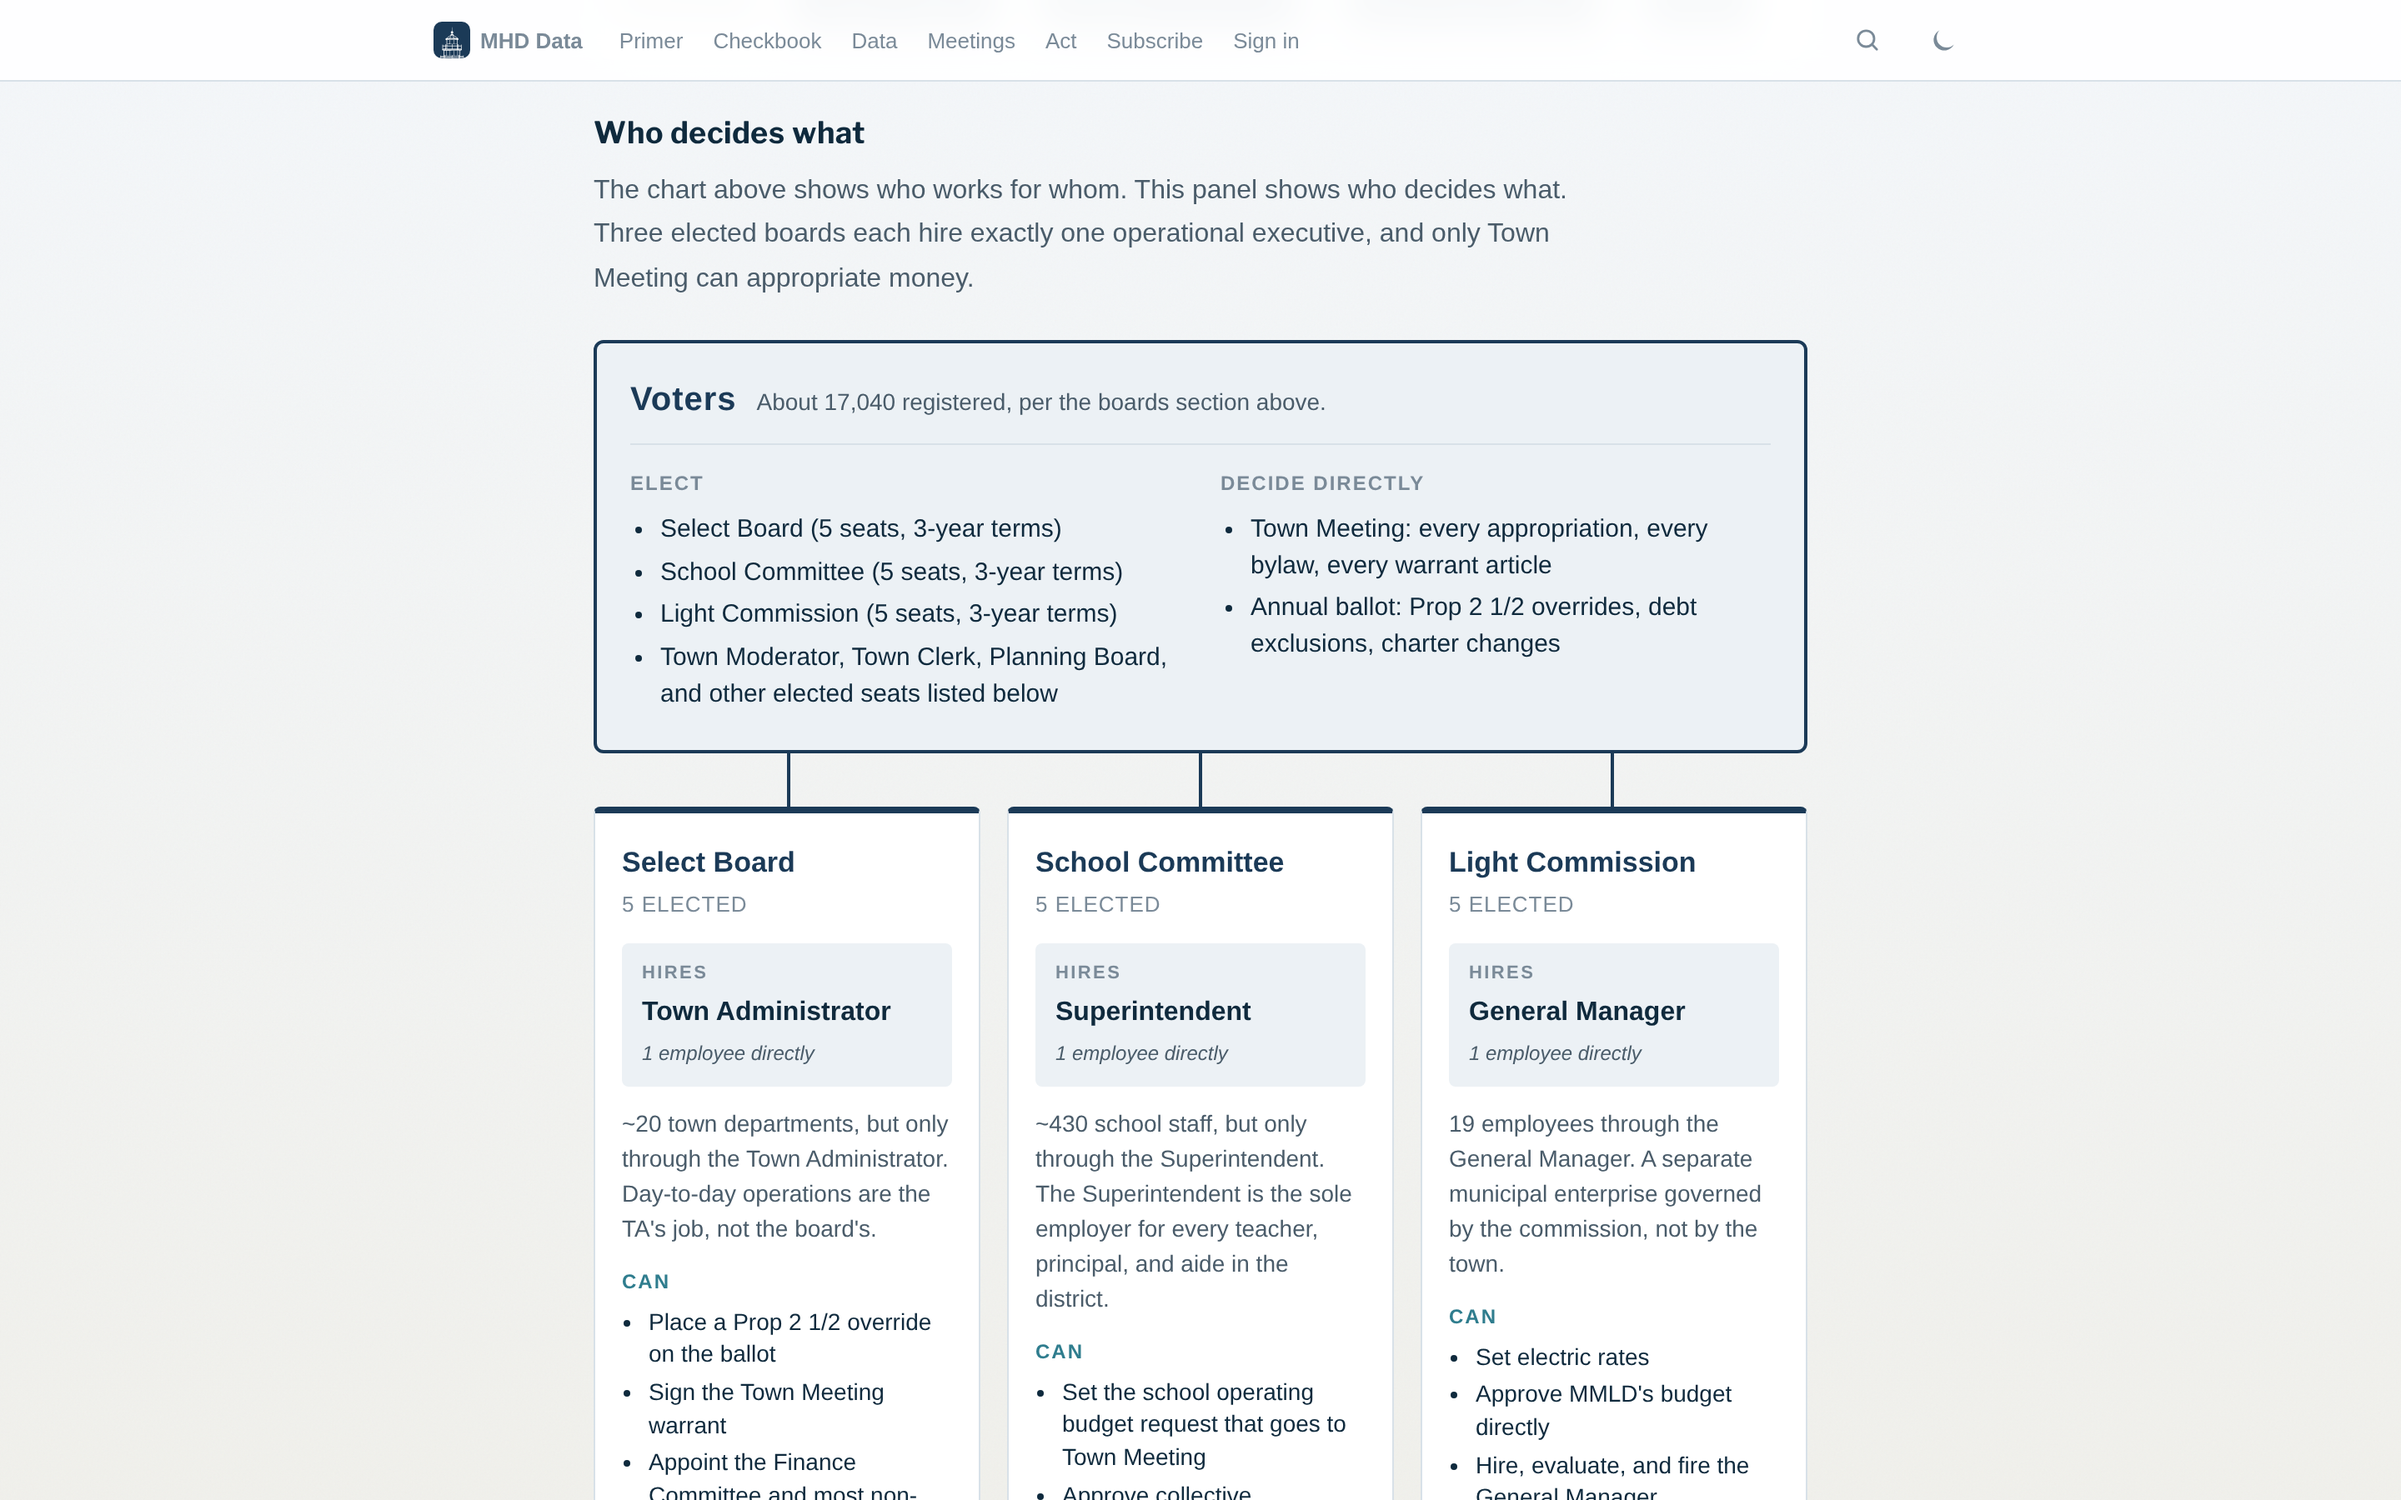
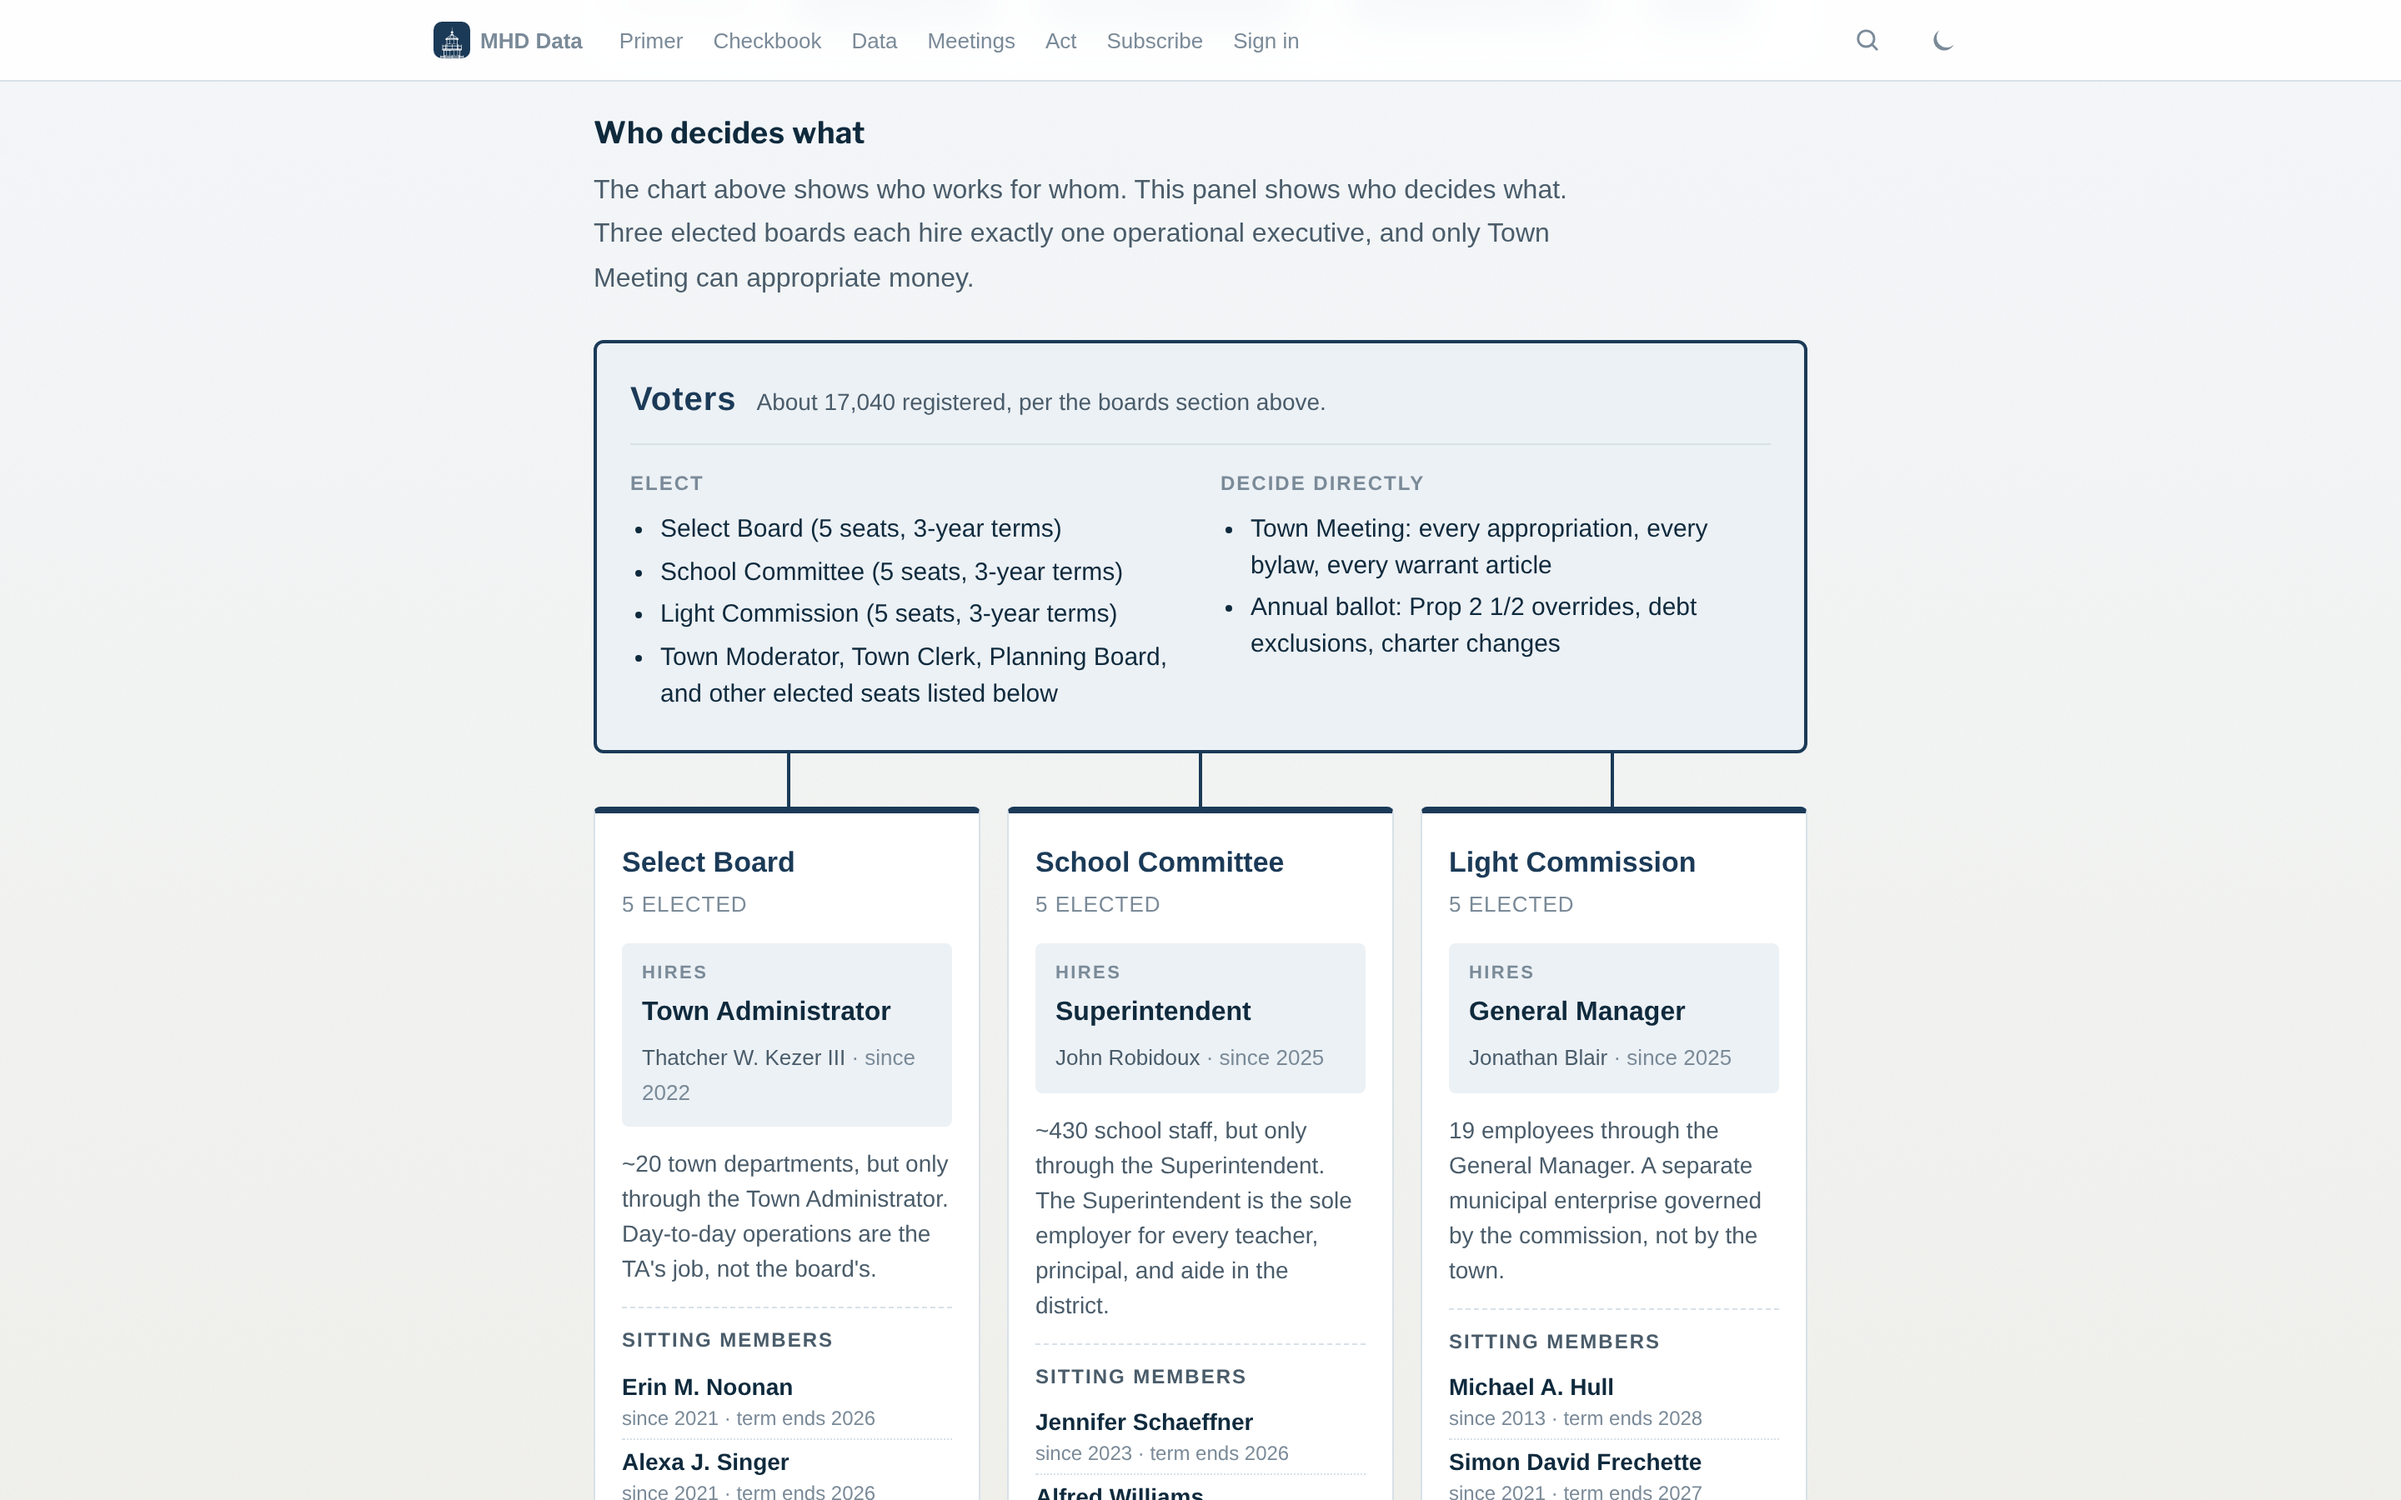
Add sitting members + executive incumbents to decision-flow pillars
Each pillar in the 'Who decides what' panel now shows:
- The named executive that body hires (Town Administrator: Thatcher
  W. Kezer III since 2022; Superintendent: John Robidoux since 2025
  permanent under July 2025 contract; General Manager: Jonathan Blair
  since 2025).
- A 'Sitting members' list with each board member's name, the year
  they were first listed in a town annual report, and their current
  term-end year. Brass 'appointed' tag for Melissa Clucas (filling
  Brian Ota's seat after his July 2025 resignation, per Dec 2025 SC
  minutes).

Names + term-end years come from data/town_docs/annual_reports/
Annual-Report-2025.txt rosters (pages 93-100). First-seen years are
derived by scripts/extract_officials_history.py, which scans annual
reports 2006-2025 for the same person across yearly rosters. Anyone
whose tenure predates the available reports is conservatively shown
as 'since 2006'. The June 2026 town election results are not yet in
the repo, so seats with term-end 2026 may have changed; the source
note in the panel calls this out.

Tooltips on each 'since YYYY' carry the methodological footnote (e.g.
Moses Grader 'Elected May 2017 to fill the seat Bret Murray vacated',
per the 2017 annual report; Michael Hull 'longest-tenured commissioner,
first listed 2013').

Deferred to a follow-up: naming members in the boards-below section
and naming department heads in the org-chart cards. Both are tractable
[…]

diff --git a/org-chart.html b/org-chart.html
@@ -78,9 +78,28 @@ og_url: https://marbleheaddata.org/org-chart.html
       <div class="flow-pillar-hires">
         <span class="flow-pillar-hires-label">Hires</span>
         <span class="flow-pillar-hires-value">{{ pillar.hires }}</span>
+        {% if pillar.hires_incumbent %}
+        <span class="flow-pillar-hires-incumbent">
+          {{ pillar.hires_incumbent.name }}<span class="flow-pillar-hires-since" title="{{ pillar.hires_incumbent.since_note }}"> &middot; since {{ pillar.hires_incumbent.since }}</span>
+        </span>
+        {% else %}
         <span class="flow-pillar-hires-count">1 employee directly</span>
+        {% endif %}
       </div>
       <p class="flow-pillar-reach">{{ pillar.reach }}</p>
+      {% if pillar.sitting %}
+      <div class="flow-pillar-sitting">
+        <p class="flow-pillar-list-label">Sitting members</p>
+        <ul>
+          {% for m in pillar.sitting %}
+          <li>
+            <span class="flow-pillar-member-name">{{ m.name }}</span>{% if m.appointed %} <span class="flow-pillar-member-appointed" title="Appointed mid-term to fill a vacancy, not elected">appointed</span>{% endif %}
+            <span class="flow-pillar-member-tenure"{% if m.since_note %} title="{{ m.since_note }}"{% endif %}>since {{ m.since }} &middot; term ends {{ m.term_ends }}</span>
+          </li>
+          {% endfor %}
+        </ul>
+      </div>
+      {% endif %}
       <div class="flow-pillar-can">
         <p class="flow-pillar-list-label">Can</p>
         <ul>{% for item in pillar.can %}<li>{{ item }}</li>{% endfor %}</ul>

diff --git a/assets/site.css b/assets/site.css
@@ -4930,6 +4930,63 @@ body.me-subscription-page .ms-pref button[type="submit"] { background: var(--c-n
   font-style: italic;
 }
 
+.flow-pillar-hires-incumbent {
+  font-size: 0.8125rem;
+  color: var(--c-text-mid);
+  margin-top: 2px;
+}
+
+.flow-pillar-hires-since {
+  color: var(--c-text-sub);
+  cursor: help;
+}
+
+.flow-pillar-sitting {
+  border-top: 1px dashed var(--c-border);
+  padding-top: 10px;
+}
+
+.flow-pillar-sitting ul {
+  margin: 0;
+  padding: 0;
+  list-style: none;
+}
+
+.flow-pillar-sitting li {
+  display: flex;
+  flex-direction: column;
+  gap: 1px;
+  padding: 4px 0;
+  border-bottom: 1px dotted var(--c-border);
+  font-size: 0.875rem;
+  line-height: 1.35;
+}
+
+.flow-pillar-sitting li:last-child {
+  border-bottom: none;
+}
+
+.flow-pillar-member-name {
+  font-weight: 600;
+  color: var(--c-text);
+}
+
+.flow-pillar-member-appointed {
+  font-size: 0.6875rem;
+  text-transform: uppercase;
+  letter-spacing: 0.5px;
+  color: var(--c-brass);
+  font-weight: 600;
+  cursor: help;
+  margin-left: 4px;
+}
+
+.flow-pillar-member-tenure {
+  font-size: 0.75rem;
+  color: var(--c-text-sub);
+  cursor: help;
+}
+
 .flow-pillar-reach {
   font-size: 0.875rem;
   color: var(--c-text-mid);

diff --git a/scripts/extract_officials_history.py b/scripts/extract_officials_history.py
@@ -1,0 +1,173 @@
+#!/usr/bin/env python3
+"""Extract Marblehead elected official rosters across annual reports 2006-2025
+and emit a YAML file mapping current (2025) officials to their first-seen year.
+
+The annual reports follow a stable pattern for the ELECTED OFFICIALS section:
+- A section header like "SELECT BOARD" on its own line
+- An optional address line starting with "--" or with the format "city, MA zip"
+- A "Term Expires" header
+- Member lines of the form: <name with letters/spaces/periods/hyphens> + lots of spaces + 4-digit year
+- A blank line ends the section
+
+The appointed-officials section (after ~line 5067 in 2025) has OCR damage that
+makes reliable parsing infeasible, so this script ignores it. Appointed exec
+names are sourced manually with explicit citations in the YAML output.
+"""
+
+from __future__ import annotations
+
+import re
+from pathlib import Path
+
+REPORTS_DIR = Path(__file__).resolve().parent.parent / "data" / "town_docs" / "annual_reports"
+YEARS = list(range(2006, 2026))  # 2006-2025 inclusive
+
+SECTION_HEADERS = {
+    "SELECT BOARD": "select_board",
+    "BOARD OF SELECTMEN": "select_board",
+    "SELECTMEN": "select_board",
+    "SELECTMAN": "select_board",  # pre-2022 the header was sometimes "SELECTMAN"
+    "MODERATOR": "moderator",
+    "TOWN CLERK": "town_clerk",
+    "ASSESSORS": "assessors",
+    "CEMETERY COMMISSION": "cemetery",
+    "BOARD OF HEALTH": "board_of_health",
+    "HOUSING AUTHORITY": "housing_authority",
+    "TRUSTEES OF ABBOT PUBLIC LIBRARY": "library_trustees",
+    "MARBLEHEAD MUNICIPAL LIGHT COMMISSIONER": "light_commission",
+    "MARBLEHEAD MUNICIPAL LIGHT COMMISSIONERS": "light_commission",
+    "MUNICIPAL LIGHT COMMISSIONERS": "light_commission",
+    "PLANNING BOARD": "planning_board",
+    "RECREATION & PARK COMMISSION": "recreation_park",
+    "RECREATION AND PARK COMMISSION": "recreation_park",
+    "SCHOOL COMMITTEE": "school_committee",
+    "WATER & SEWER COMMISSION": "water_sewer",
+    "WATER AND SEWER COMMISSION": "water_sewer",
+}
+
+# Lines that look like roster ends or appointed-section starts
+APPOINTED_MARKER = re.compile(r"^\s*APPOINTED OFFICIALS\b", re.IGNORECASE)
+
+# Member line: name followed by lots of whitespace and a 4-digit year (term expires).
+# We do NOT anchor to end-of-line because some older reports are 2-column OCR'd
+# (the same roster line appears twice side-by-side on one source line). Take
+# only the first match.
+MEMBER_LINE = re.compile(
+    r"^\s*(?P<name>[A-Z][A-Za-z'.\-]+(?:\s+(?:[A-Z][A-Za-z'.\-]+|[A-Z]\.|Jr\.|Sr\.|II|III|IV|van|de|della|Van|De|Della))+)"
+    r"(?:[\s\-]*\([^)]+\))?(?:\s*-\s*[A-Za-z][A-Za-z\s]+?)?\s+(?P<year>20\d{2})\b"
+)
+
+# Lines we should skip inside a section
+SKIP_LINE = re.compile(r"^\s*(--|Term Expires|MARBLEHEAD TOWN REPORT|_+|\d+\s*$|$)")
+
+
+def parse_report(path: Path) -> dict[str, list[str]]:
+    """Returns {role_key: [name, ...]} for one annual report.
+
+    Stops parsing once it hits the APPOINTED OFFICIALS marker (OCR-noisy section).
+    """
+    out: dict[str, list[str]] = {}
+    current_role: str | None = None
+
+    with path.open(encoding="utf-8", errors="replace") as f:
+        for raw in f:
+            line = raw.rstrip()
+            stripped = line.strip()
+
+            if APPOINTED_MARKER.search(stripped):
+                break
+
+            # Section header?
+            up = stripped.upper()
+            for header, key in SECTION_HEADERS.items():
+                if up == header or up.startswith(header + " "):
+                    current_role = key
+                    out.setdefault(current_role, [])
+                    break
+            else:
+                if current_role is None:
+                    continue
+                # Try to parse a member line
+                m = MEMBER_LINE.match(line)
+                if m:
+                    name = clean_name(re.sub(r"\s+", " ", m.group("name").strip()))
+                    if name not in out[current_role]:
+                        out[current_role].append(name)
+                elif stripped == "":
+                    # Blank line in a section ends it for safety
+                    current_role = None
+
+    return out
+
+
+ROLE_SUFFIX = re.compile(
+    r"\s*[-,]\s*(chair|chairman|vice\s*chair|clerk|secretary|treasurer)\s*$",
+    re.IGNORECASE,
+)
+
+
+def clean_name(s: str) -> str:
+    """Strip role suffixes like '-Chair' that older reports embed in names."""
+    return ROLE_SUFFIX.sub("", s).strip()
+
+
+def normalize_name(s: str) -> str:
+    """Lowercase, drop punctuation, collapse whitespace, drop middle initials.
+
+    Returns the LAST TWO meaningful tokens (first + last name) so that
+    'Marc C. Moses Grader', 'M.C. Moses Grader', and 'Moses Grader' all
+    collapse to 'moses grader'. Generational suffixes (Jr., III) stay attached
+    to the surname so we don't collapse parent/child onto the same key.
+    """
+    s = clean_name(s)
+    s = re.sub(r"[.,]", "", s.lower())
+    parts = s.split()
+    # Pull generational suffix off the end so we can re-attach after picking tokens.
+    suffix = ""
+    if parts and parts[-1] in {"jr", "sr", "ii", "iii", "iv"}:
+        suffix = " " + parts.pop()
+    # Drop single-letter "initials" (e.g. "M", "C")
+    parts = [p for p in parts if len(p) > 1]
+    if len(parts) >= 2:
+        parts = [parts[-2], parts[-1]]
+    return " ".join(parts) + suffix
+
+
+def main() -> None:
+    history: dict[str, dict[str, dict[str, int]]] = {}  # role -> normalized_name -> {first, last, display}
+
+    for year in YEARS:
+        report = REPORTS_DIR / f"Annual-Report-{year}.txt"
+        if not report.exists():
+            continue
+        parsed = parse_report(report)
+        for role, names in parsed.items():
+            history.setdefault(role, {})
+            for name in names:
+                key = normalize_name(name)
+                if not key:
+                    continue
+                entry = history[role].setdefault(key, {"first": year, "last": year, "display": name})
+                if year < entry["first"]:
+                    entry["first"] = year
+                    entry["display"] = name  # prefer earliest spelling
+                if year > entry["last"]:
+                    entry["last"] = year
+
+    # Print summary keyed to 2025-era officials (last == 2025)
+    print("# Auto-extracted from annual reports 2006-2025")
+    print("# Each entry: name (current role, first seen YYYY, last seen YYYY)")
+    print()
+    for role in sorted(history):
+        current = [(e["display"], e["first"], e["last"]) for e in history[role].values() if e["last"] == 2025]
+        if not current:
+            continue
+        print(f"## {role}")
+        for display, first, last in sorted(current, key=lambda x: (x[1], x[0])):
+            tag = "(pre-2006)" if first == 2006 else f"(since {first})"
+            print(f"  - {display} {tag}")
+        print()
+
+
+if __name__ == "__main__":
+    main()
